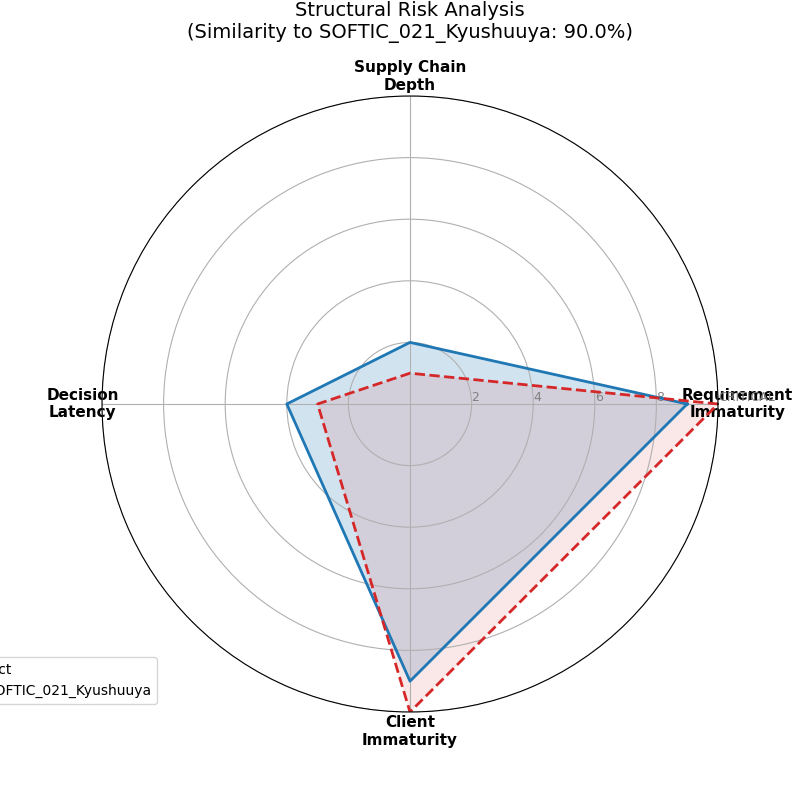
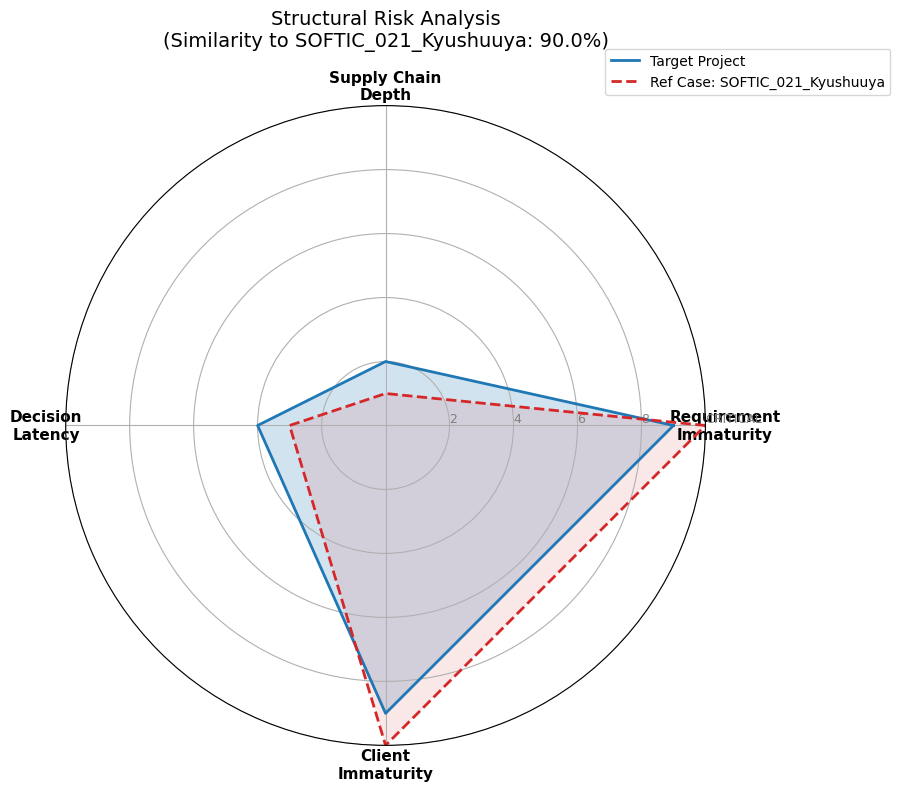
Fix layout: Move legend to bottom

diff --git a/src/risk_estimator.py b/src/risk_estimator.py
@@ -87,7 +87,7 @@ class DeathMarchEstimator:
         angles += angles[:1]
 
         # プロット作成
-        fig, ax = plt.subplots(figsize=(8, 8), subplot_kw=dict(polar=True))
+        fig, ax = plt.subplots(figsize=(10, 8), subplot_kw=dict(polar=True)) # サイズを少し大きく調整
 
         # ターゲット（診断対象）
         ax.plot(angles, values_target, linewidth=2, linestyle='solid', label='Target Project', color='#1f77b4')
@@ -104,12 +104,18 @@ class DeathMarchEstimator:
         plt.yticks([2, 4, 6, 8, 10], ["2", "4", "6", "8", "CRITICAL"], color="grey", size=9)
         plt.ylim(0, 10)
 
-        # タイトルとレジェンド
+        # タイトル
         plt.title(f"Structural Risk Analysis\n(Similarity to {fail_name}: {diagnosis_result['similarity_percent']}%)", size=14, y=1.08)
-        plt.legend(loc='upper right', bbox_to_anchor=(0.1, 0.1))
         
+        # 凡例の設定（修正箇所）
+        # bbox_to_anchorでグラフ外の右上に固定配置し、切れないように調整
+        plt.legend(loc='upper right', bbox_to_anchor=(1.3, 1.1))
+        
+        # レイアウト調整（凡例が見えるように余白を確保）
+        plt.tight_layout()
+
         output_file = "risk_radar_chart.png"
-        plt.savefig(output_file)
+        plt.savefig(output_file, bbox_inches='tight') # 保存時にも余白を調整
         print(f"[*] Risk Chart Saved: {output_file}")
 
 # ---------------------------------------------------------
